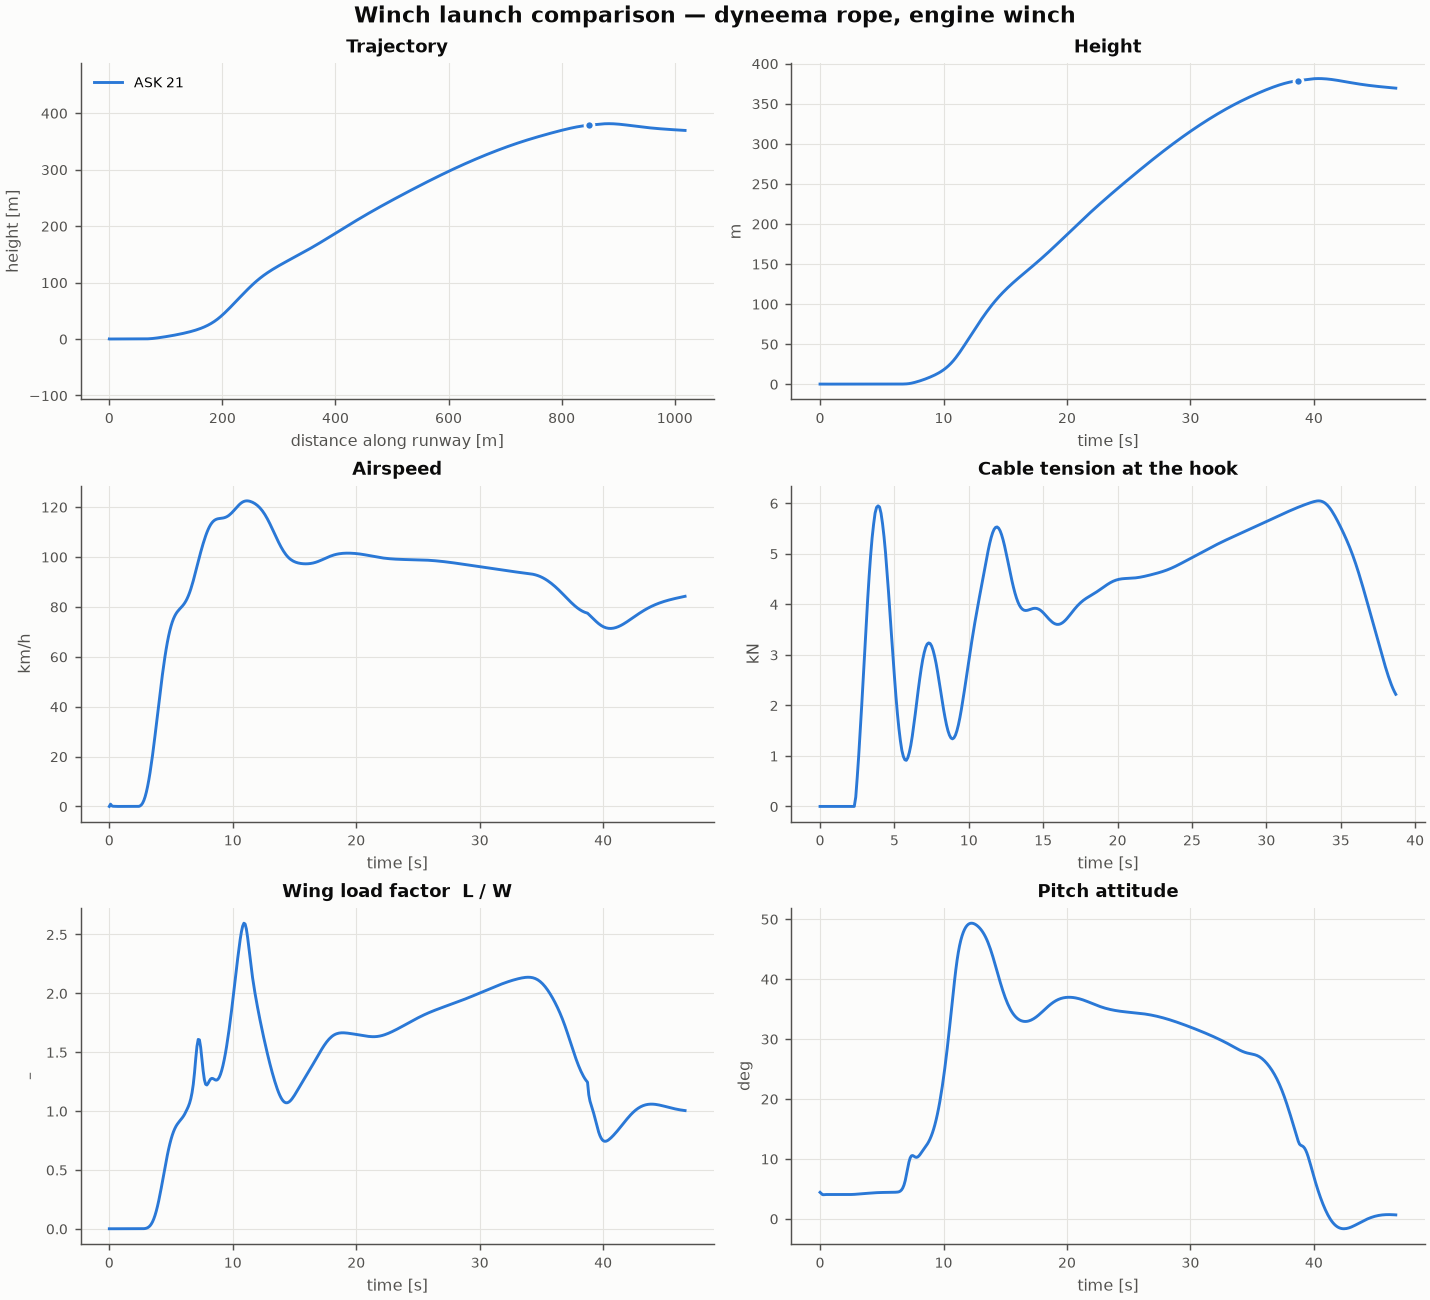
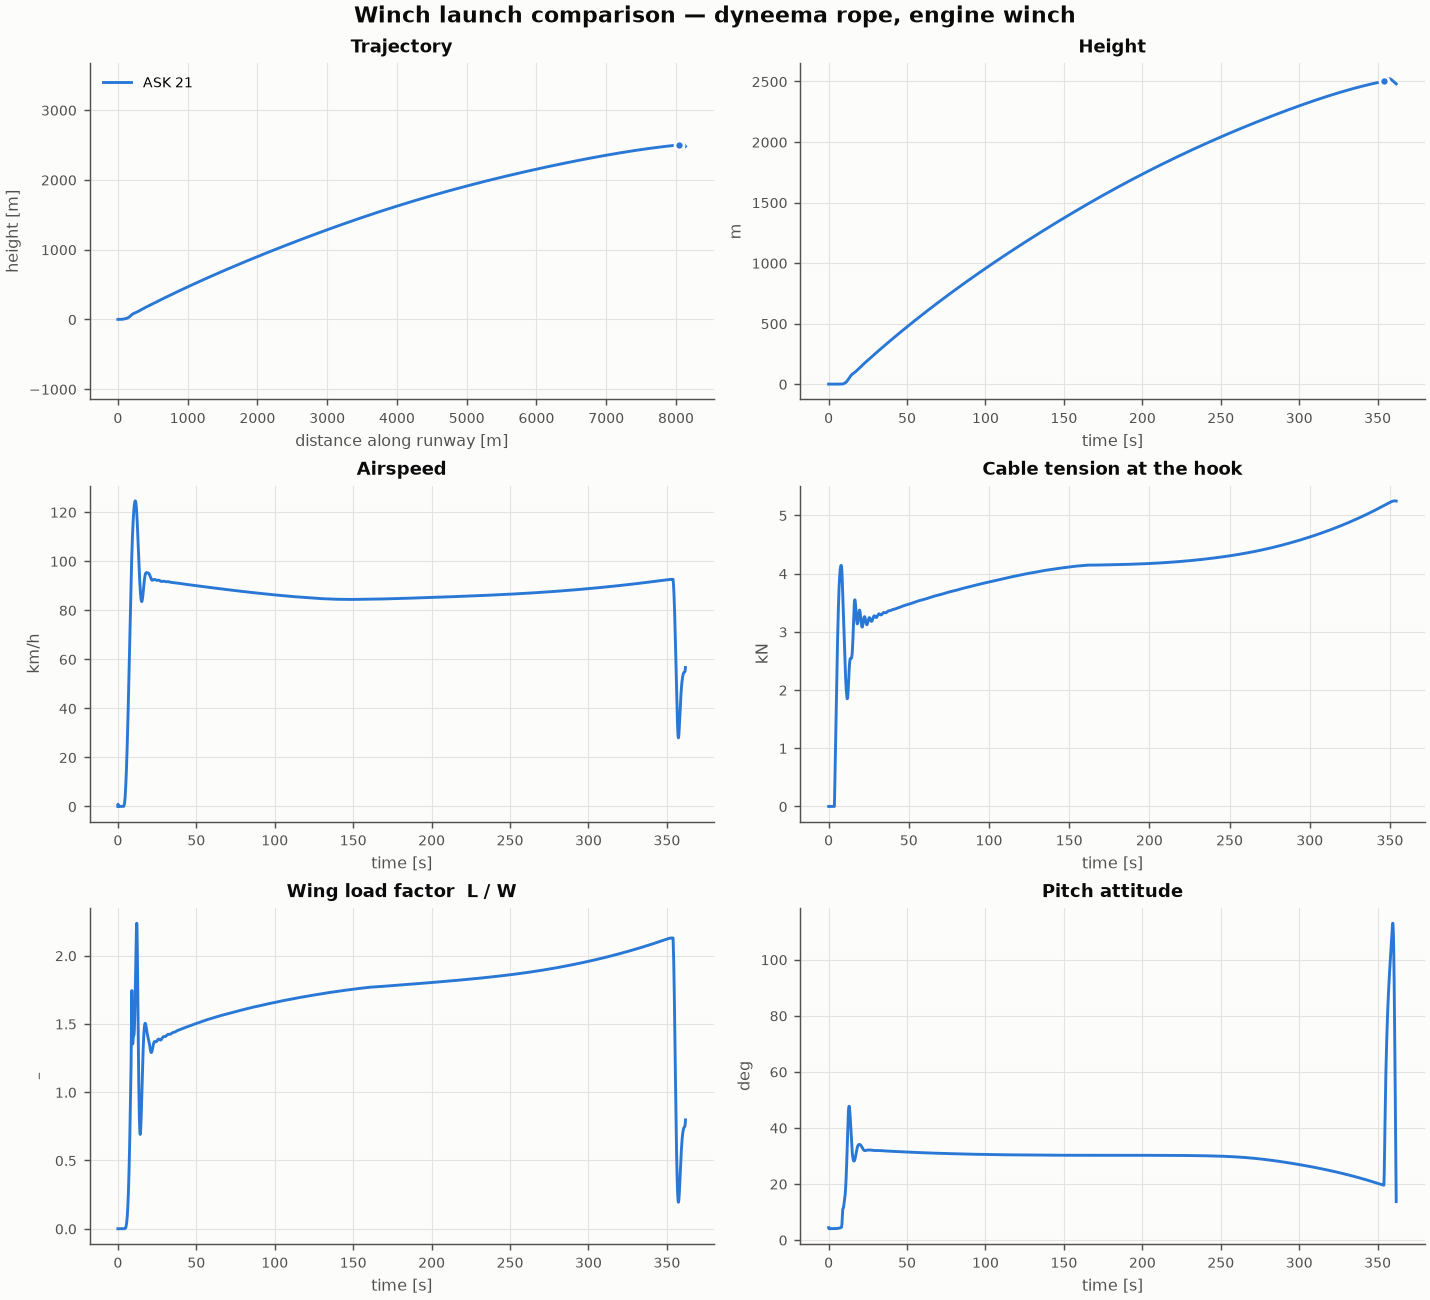
Sort sensitivity table by |elasticity|

diff --git a/winch_sim/sensitivity.py b/winch_sim/sensitivity.py
@@ -105,7 +105,7 @@ def _walk(params, grads, prefix=""):
 
 
 def sensitivities(launch: Launch, n_segments: int = 12, tol: float = 1e-8):
-    """Release height [m] and a list of Sensitivity rows, largest effect first."""
+    """Release height [m] and Sensitivity rows, sorted by |elasticity| (largest first)."""
     launch = as_float_arrays(launch)
     h, grads = height_and_gradient(launch, n_segments, tol)
     h = float(h)
@@ -121,7 +121,7 @@ def sensitivities(launch: Launch, n_segments: int = 12, tol: float = 1e-8):
                 elasticity=value * g / h,
             )
         )
-    rows.sort(key=lambda r: (-abs(r.dh_10pct), -abs(r.dh_dp)))
+    rows.sort(key=lambda r: (-abs(r.elasticity), -abs(r.dh_dp)))
     return h, rows
 
 
